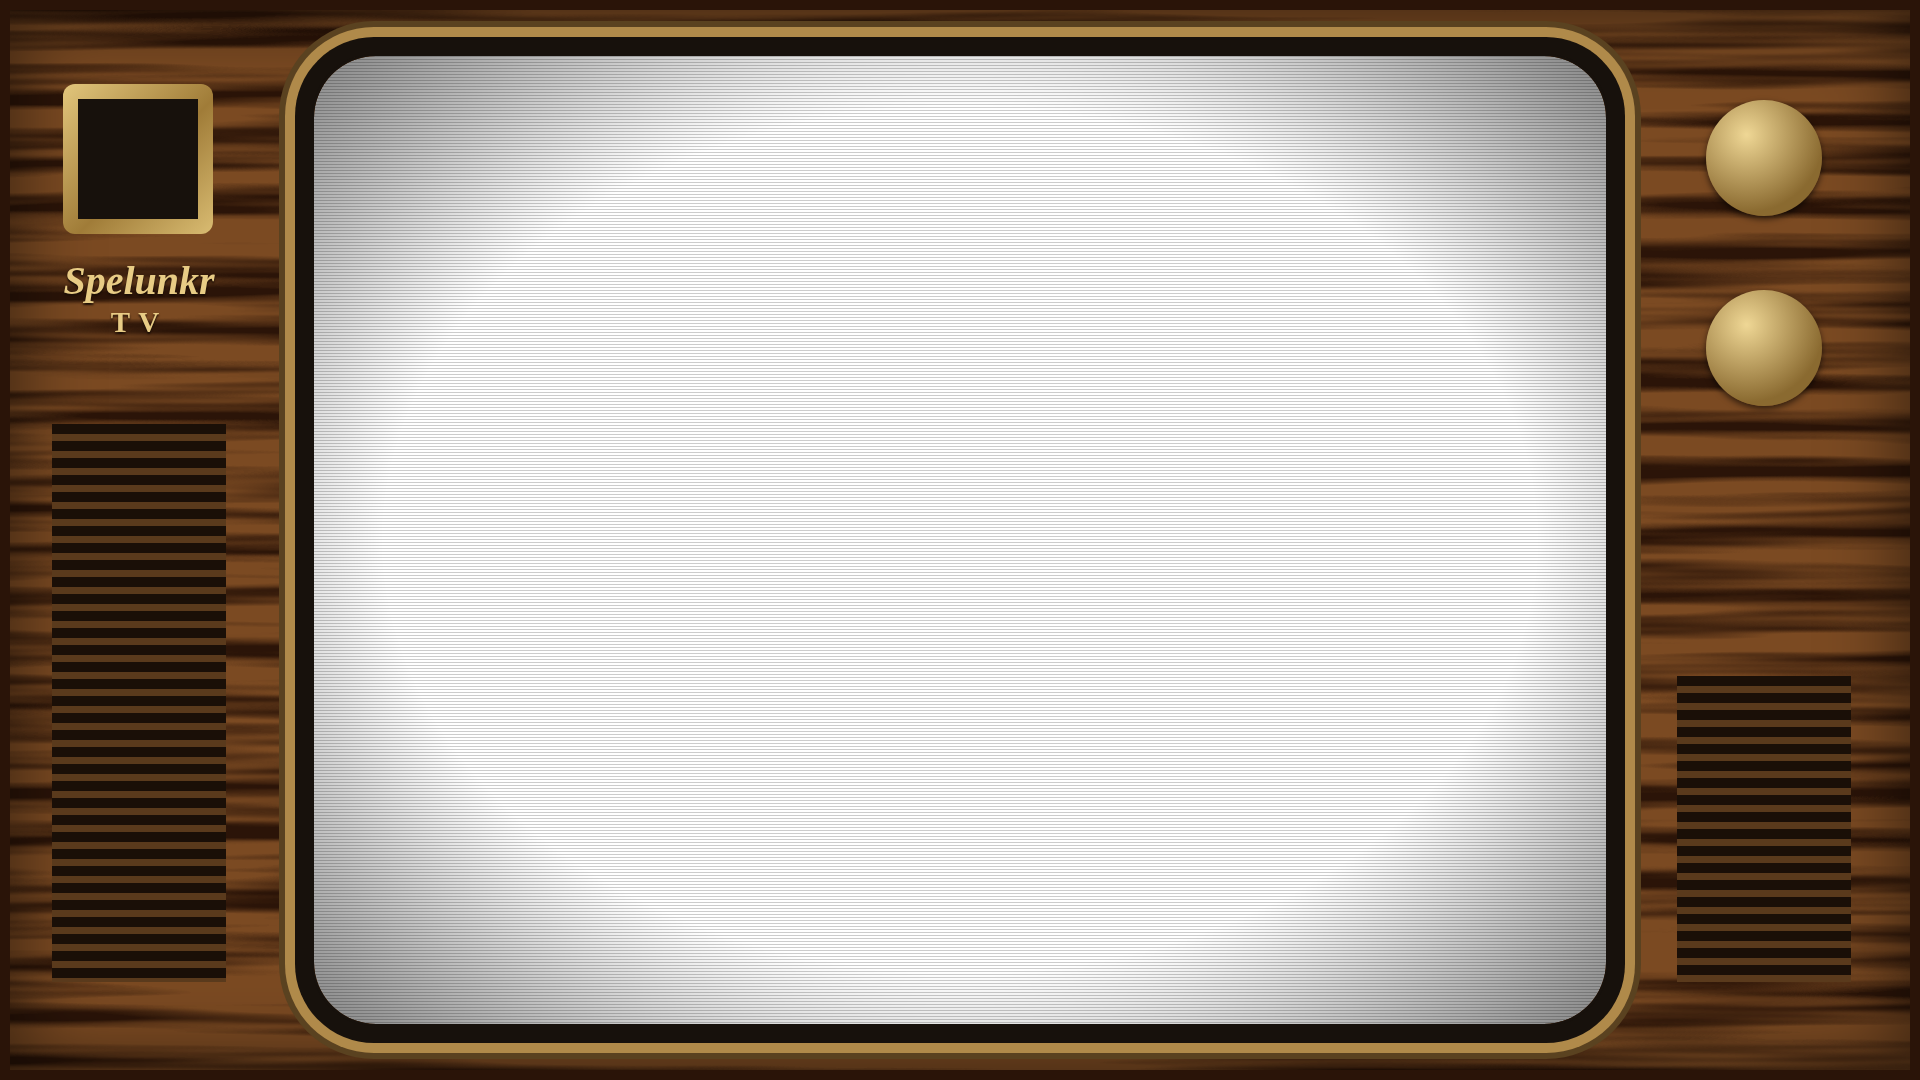
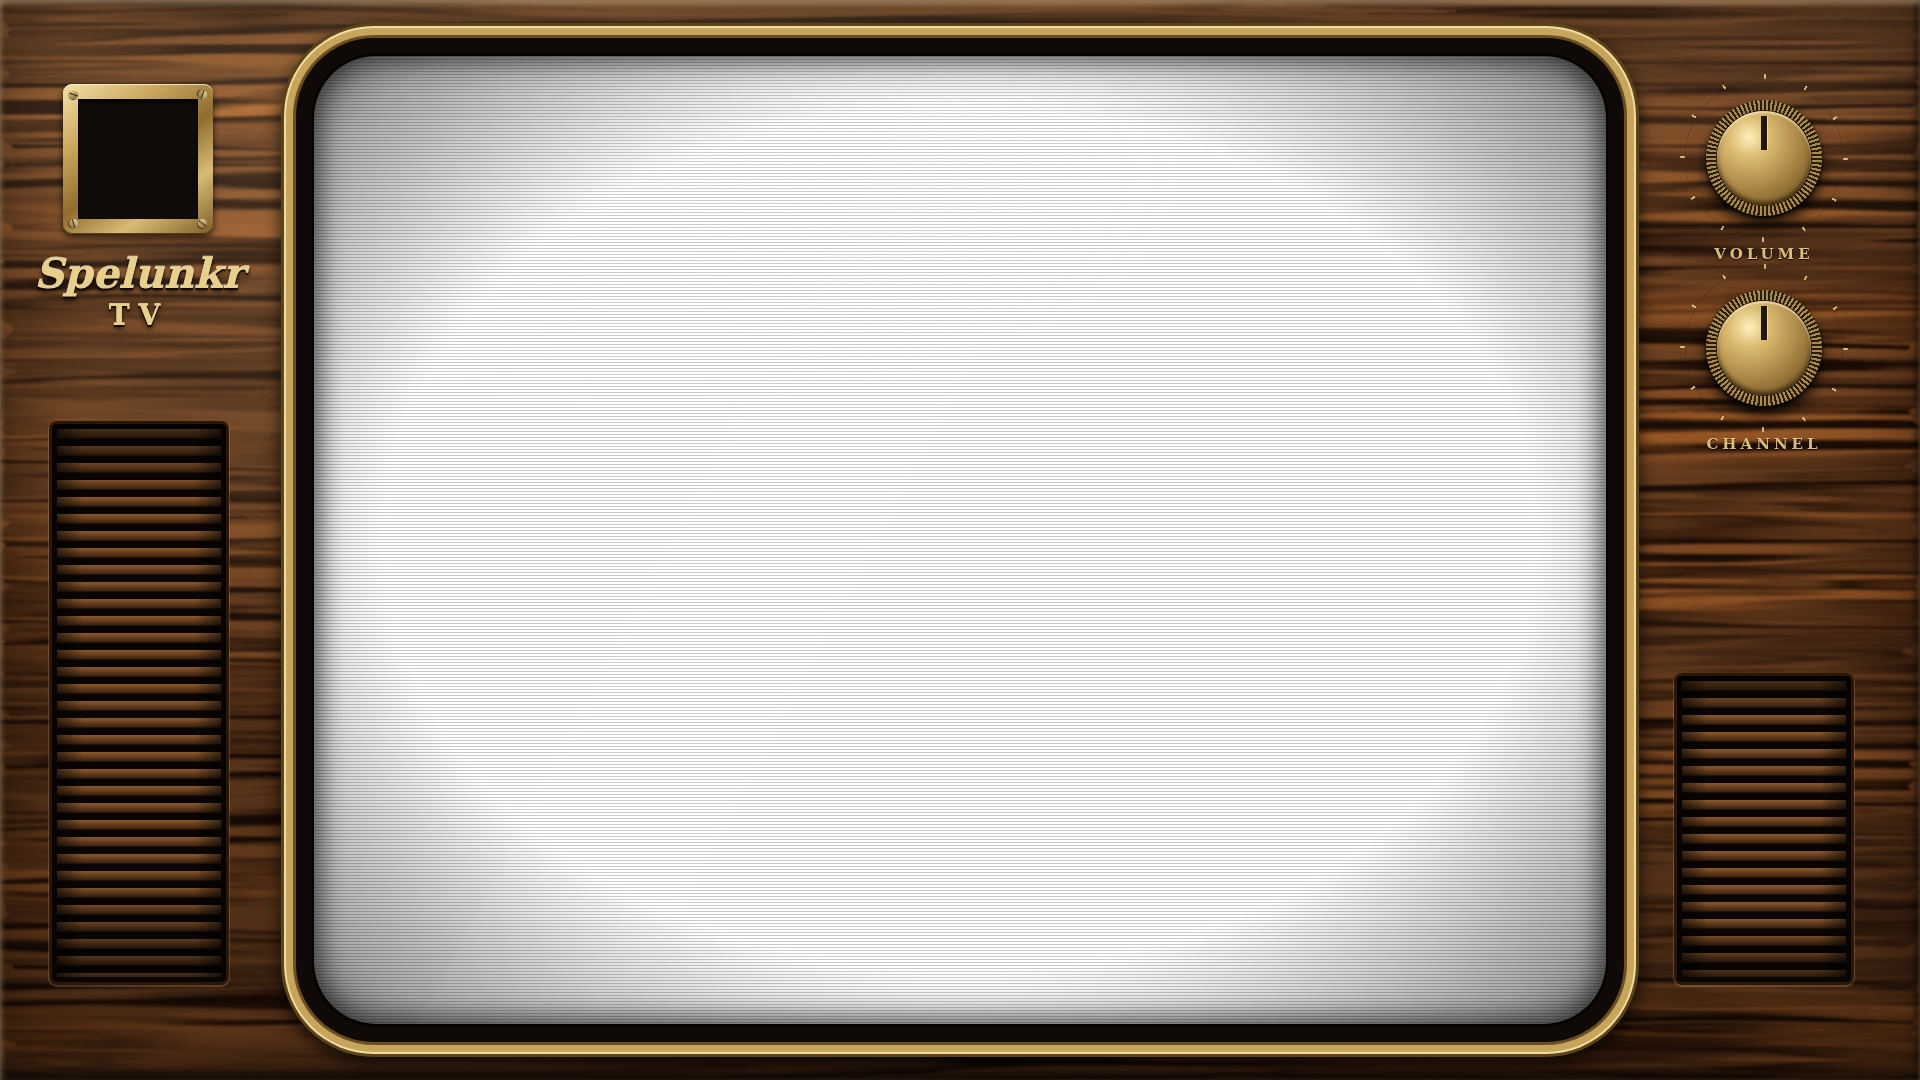
feat: make the TV cabinet look like a real set
Spec: #15

Changed region(s): [[0.0, 0.0, 1.0, 1.0]]

diff --git a/tools/cabinet/render.ts b/tools/cabinet/render.ts
@@ -24,29 +24,57 @@ function page(height: number) {
   const period = height === 1080 ? 3 : 2;
   const line = height === 1080 ? 0.2 : 0.14; // the same overall darkening at both sizes
 
+  // A real set is lit from above: every metal part goes bright at its top left, and every raised part drops a shadow.
+  const metal = `linear-gradient(145deg,#f3e2a8 0%,#c9a65c 28%,#8f6d30 52%,#d8bb74 74%,#7d5e28 100%)`;
+  const knob = (top: number, label: string) => `
+<div class=dial style="top:${px(top - 26)}"></div>
+<div class=k style="top:${px(top)}"><div class=cap><i></i></div></div>
+<div class=lab style="top:${px(top + 147)}">${label}</div>`;
+  const screw = (x: number, y: number, turn: number) => `<div class=screw style="left:${px(x)};top:${px(y)};transform:rotate(${turn}deg)"></div>`;
+
   return `<!doctype html><meta charset=utf-8><style>
 html,body{margin:0;background:transparent}
 .f{position:relative;width:${1920 * s}px;height:${height}px;overflow:hidden}
-.cab{position:absolute;inset:0;background:#7b4a22;clip-path:path(evenodd,'${frame} ${hole}')}
+.cab{position:absolute;inset:0;background:#5e3519;clip-path:path(evenodd,'${frame} ${hole}')}
 .wood{position:absolute;inset:0;width:100%;height:100%}
-.bevel{position:absolute;inset:0;box-shadow:inset 0 0 0 ${px(10)} #2a1408,inset 0 0 ${px(76)} ${px(19)} rgba(0,0,0,.5)}
-.ring{position:absolute;left:${tx}px;top:${ty}px;width:${tw}px;height:${th}px;border-radius:${r}px;background:#17110c;box-shadow:0 0 0 ${px(17)} #17110c,0 0 0 ${px(27)} #b08a4a,0 0 0 ${px(33)} #5a4220}
-.plate{position:absolute;left:${px(63)};top:${px(84)};width:${px(150)};height:${px(150)};padding:${px(15)};box-sizing:border-box;background:linear-gradient(135deg,#e2c67c,#a07c38 55%,#d9bc72);border-radius:${px(12)}}
-.plate div{width:100%;height:100%;background:#17110c}
-.brand{position:absolute;left:${px(24)};width:${px(230)};top:${px(258)};text-align:center;font:italic 700 ${px(40)}/1.15 Georgia,serif;color:#e8cc85;text-shadow:0 ${px(2)} ${px(2)} #1a0d05}
-.brand b{display:block;font:700 ${px(29)}/1.3 Georgia,serif;letter-spacing:${px(8)};font-style:normal}
-.grille{position:absolute;left:${px(52)};width:${px(174)};top:${px(424)};height:${px(558)};background:repeating-linear-gradient(#1a0f07 0,#1a0f07 ${px(10)},#5a3a1c ${px(10)},#5a3a1c ${px(17)})}
-.k{position:absolute;left:${px(1706)};width:${px(116)};height:${px(116)};border-radius:50%;background:radial-gradient(circle at 35% 30%,#efd795,#8a6a30 70%);box-shadow:0 ${px(3)} ${px(6)} rgba(0,0,0,.6)}
+.light{position:absolute;inset:0;background:radial-gradient(ellipse 80% 75% at 32% 22%,rgba(255,214,160,.2),transparent 62%),linear-gradient(180deg,rgba(255,220,170,.1),transparent 28%,rgba(0,0,0,.34))}
+.edge{position:absolute;inset:0;box-shadow:inset 0 ${px(5)} ${px(4)} rgba(255,222,170,.32),inset ${px(4)} 0 ${px(4)} rgba(255,222,170,.14),inset 0 ${px(-9)} ${px(8)} rgba(0,0,0,.6),inset ${px(-5)} 0 ${px(7)} rgba(0,0,0,.4),inset 0 0 ${px(70)} ${px(14)} rgba(20,8,2,.42)}
+.ring{position:absolute;left:${tx}px;top:${ty}px;width:${tw}px;height:${th}px;border-radius:${r}px;background:#0b0806;
+  box-shadow:0 0 0 ${px(16)} #0f0a07,0 0 0 ${px(19)} #6b4f22,0 0 0 ${px(26)} #c8a55c,0 0 0 ${px(28)} #f0dca0,0 0 0 ${px(31)} #5d4318,0 ${px(7)} ${px(18)} ${px(31)} rgba(0,0,0,.75),inset 0 0 ${px(9)} ${px(2)} #000}
+.plate{position:absolute;left:${px(63)};top:${px(84)};width:${px(150)};height:${px(150)};padding:${px(15)};box-sizing:border-box;background:${metal};border-radius:${px(9)};box-shadow:0 ${px(3)} ${px(7)} rgba(0,0,0,.75),inset 0 ${px(1)} 0 rgba(255,245,210,.75),inset 0 ${px(-1)} 0 rgba(60,40,10,.8)}
+.plate div{width:100%;height:100%;background:#120c08;box-shadow:inset 0 ${px(3)} ${px(5)} #000}
+.screw{position:absolute;width:${px(9)};height:${px(9)};border-radius:50%;background:linear-gradient(135deg,#f0e0ae,#7c5d28);box-shadow:0 ${px(1)} ${px(1)} rgba(0,0,0,.7)}
+.screw:after{content:"";position:absolute;left:0;right:0;top:44%;height:12%;background:#3a2810}
+.brand{position:absolute;left:${px(24)};width:${px(230)};top:${px(252)};text-align:center;font:italic 700 ${px(41)}/1.1 Georgia,"DejaVu Serif",serif;color:#e9cf8c;text-shadow:0 ${px(-1)} 0 rgba(255,246,214,.75),0 ${px(2)} ${px(1)} #120802,0 ${px(4)} ${px(5)} rgba(0,0,0,.7)}
+.brand b{display:block;font:700 ${px(28)}/1.35 Georgia,"DejaVu Serif",serif;letter-spacing:${px(9)};font-style:normal}
+.grille{position:absolute;left:${px(52)};width:${px(174)};top:${px(424)};height:${px(558)};border-radius:${px(5)};background:#0a0604;box-shadow:0 0 0 ${px(3)} #2b1608,0 ${px(1)} 0 ${px(4)} rgba(255,214,160,.2),inset 0 ${px(6)} ${px(8)} #000}
+.grille:before{content:"";position:absolute;inset:${px(5)};background:repeating-linear-gradient(180deg,#8a5a2d 0,#6b4220 ${px(4)},#3c2210 ${px(9)},#0a0503 ${px(10)},#0a0503 ${px(17)})}
+.grille:after{content:"";position:absolute;inset:${px(5)};background:linear-gradient(90deg,rgba(0,0,0,.55),transparent 16%,transparent 84%,rgba(0,0,0,.55)),linear-gradient(180deg,rgba(0,0,0,.5),transparent 12%,transparent 80%,rgba(0,0,0,.5))}
 .g2{left:${px(1677)};top:${px(676)};height:${px(306)}}
-.tube{position:absolute;left:${hx}px;top:${hy}px;width:${hw}px;height:${hh}px;border-radius:${r}px;
-  background:radial-gradient(ellipse 72% 72% at 50% 50%,transparent 62%,rgba(0,0,0,.5) 100%),repeating-linear-gradient(rgba(0,0,0,${line}) 0,rgba(0,0,0,${line}) 1px,transparent 1px,transparent ${period}px)}
+.dial{position:absolute;left:${px(1680)};width:${px(168)};height:${px(168)};border-radius:50%;background:radial-gradient(circle,transparent 62%,#2b1809 63%,#2b1809 66%,transparent 67%),repeating-conic-gradient(rgba(233,207,140,.85) 0 1.4deg,transparent 1.4deg 30deg);-webkit-mask:radial-gradient(circle,transparent 66%,#000 67%,#000 72%,transparent 73%);mask:radial-gradient(circle,transparent 66%,#000 67%,#000 72%,transparent 73%)}
+.k{position:absolute;left:${px(1706)};width:${px(116)};height:${px(116)};border-radius:50%;background:repeating-conic-gradient(#2a1d0d 0 2.2deg,#a98a4d 2.2deg 4.5deg);box-shadow:0 ${px(9)} ${px(14)} rgba(0,0,0,.8),0 ${px(2)} ${px(3)} rgba(0,0,0,.9)}
+.cap{position:absolute;inset:${px(11)};border-radius:50%;background:radial-gradient(circle at 34% 28%,#fff0bd 0,#dcbc72 22%,#a68242 58%,#5d4318 100%);box-shadow:inset 0 ${px(2)} ${px(2)} rgba(255,246,214,.7),inset 0 ${px(-3)} ${px(4)} rgba(40,25,5,.75),0 0 0 ${px(1)} #2a1d0d}
+.cap i{position:absolute;left:47%;width:6%;top:5%;height:36%;background:#23170a;box-shadow:${px(1)} 0 0 rgba(255,240,200,.6)}
+.lab{position:absolute;left:${px(1664)};width:${px(200)};text-align:center;font:700 ${px(15)}/1 Georgia,"DejaVu Serif",serif;letter-spacing:${px(4)};color:#d9bd7c;text-shadow:0 ${px(1)} ${px(1)} #120802}
+.tube{position:absolute;left:${hx}px;top:${hy}px;width:${hw}px;height:${hh}px;border-radius:${r}px;overflow:hidden;
+  background:
+    radial-gradient(ellipse 58% 34% at 26% 12%,rgba(255,255,255,.075),transparent 72%),
+    linear-gradient(118deg,transparent 34%,rgba(255,255,255,.035) 34.4%,rgba(255,255,255,.035) 45%,transparent 45.4%),
+    radial-gradient(ellipse 74% 74% at 50% 50%,transparent 60%,rgba(0,0,0,.34) 86%,rgba(0,0,0,.66) 100%),
+    repeating-linear-gradient(rgba(0,0,0,${line}) 0,rgba(0,0,0,${line}) 1px,transparent 1px,transparent ${period}px);
+  box-shadow:inset 0 0 ${px(26)} ${px(6)} rgba(0,0,0,.62)}
 </style><div class=f>
 <div class=cab>
-<svg class=wood preserveAspectRatio="none" viewBox="0 0 800 450"><filter id=w x="0" y="0" width="100%" height="100%" color-interpolation-filters="sRGB"><feTurbulence type="fractalNoise" baseFrequency="0.004 0.11" numOctaves="3" seed="11"/><feColorMatrix values="0 0 0 0 .17  0 0 0 0 .08  0 0 0 0 .03  3.2 0 0 0 -1.25"/></filter><rect width="800" height="450" fill="#7b4a22"/><rect width="800" height="450" filter="url(#w)"/></svg>
-<div class=bevel></div><div class=ring></div>
-<div class=plate><div></div></div><div class=brand>Spelunkr<b>TV</b></div>
+<svg class=wood preserveAspectRatio="none" viewBox="0 0 1920 1080"><defs>
+<filter id=grain x="0" y="0" width="100%" height="100%" color-interpolation-filters="sRGB"><feTurbulence type="fractalNoise" baseFrequency="0.0016 0.05" numOctaves="3" seed="11" result="n"/><feDisplacementMap in="n" in2="n" scale="60" xChannelSelector="G" yChannelSelector="R"/><feColorMatrix values="0 0 0 0 .11  0 0 0 0 .05  0 0 0 0 .02  3.4 0 0 0 -1.32"/><feGaussianBlur stdDeviation="1.1"/></filter>
+<filter id=tone x="0" y="0" width="100%" height="100%" color-interpolation-filters="sRGB"><feTurbulence type="fractalNoise" baseFrequency="0.0009 0.012" numOctaves="3" seed="23"/><feColorMatrix values="0 0 0 0 .78  0 0 0 0 .44  0 0 0 0 .18  1.7 0 0 0 -.72"/></filter>
+</defs><rect width="1920" height="1080" fill="#6e4120"/><rect width="1920" height="1080" filter="url(#tone)"/><rect width="1920" height="1080" filter="url(#grain)"/></svg>
+<div class=light></div><div class=edge></div><div class=ring></div>
+<div class=plate><div></div></div>
+${screw(69, 90, 20)}${screw(198, 90, 110)}${screw(69, 219, 75)}${screw(198, 219, 35)}
+<div class=brand>Spelunkr<b>TV</b></div>
 <div class=grille></div>
-<div class=k style="top:${px(100)}"></div><div class=k style="top:${px(290)}"></div>
+${knob(100, "VOLUME")}${knob(290, "CHANNEL")}
 <div class="grille g2"></div>
 </div>
 <div class=tube></div>
